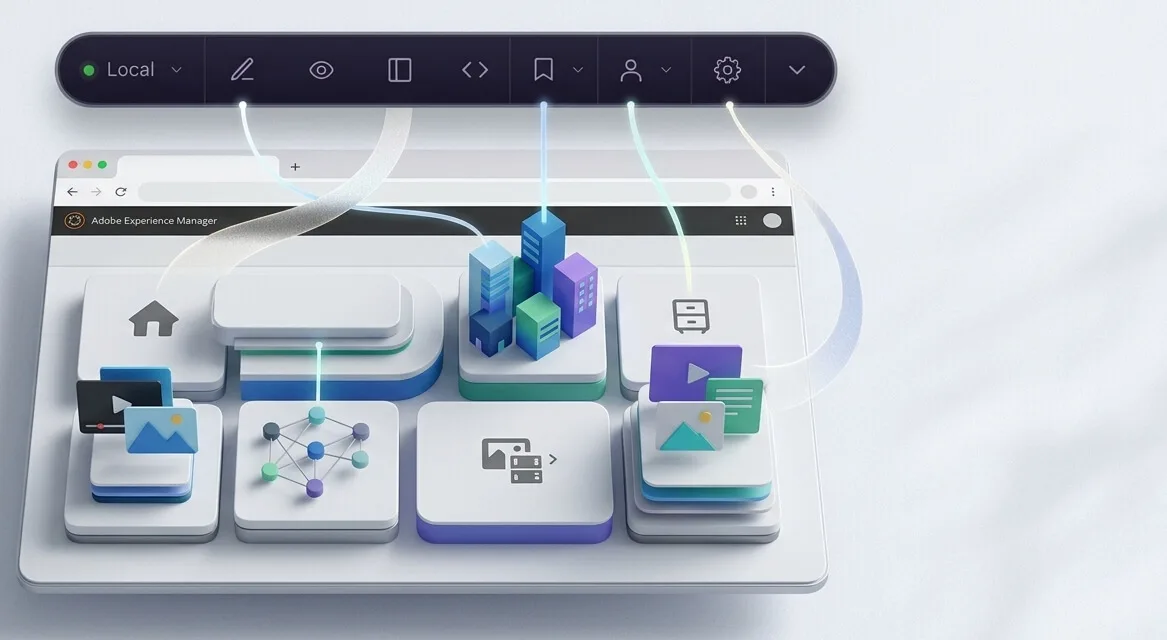
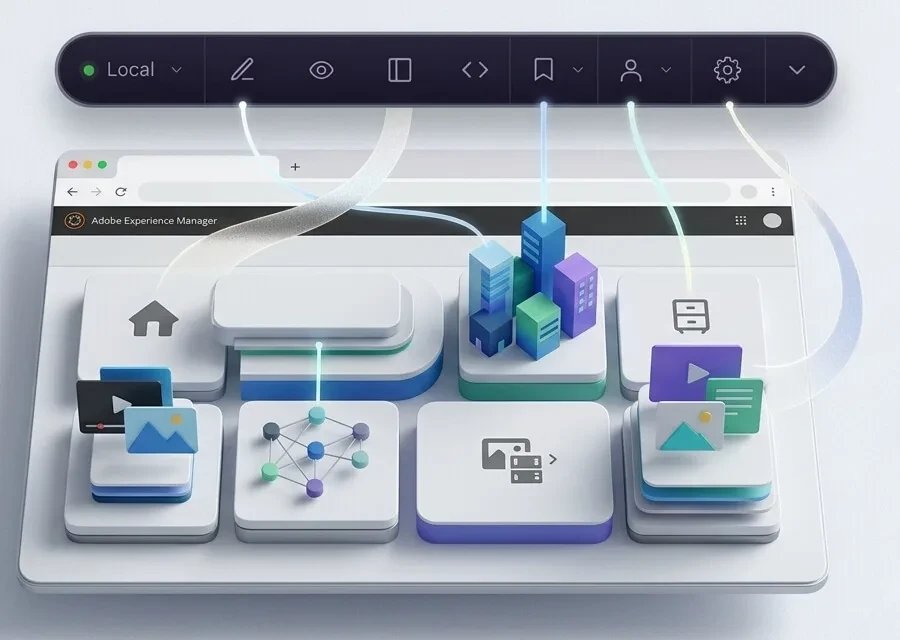
fix(docs): crop the empty right side of the hero image

diff --git a/docs/es/index.html b/docs/es/index.html
@@ -103,7 +103,7 @@
         </div>
       </div>
       <div class="hero-media">
-        <img class="hero-img" src="../assets/toolbar-scene.webp" width="1167" height="640" fetchpriority="high" decoding="async" alt="Toolbar AEM flotando sobre una ventana del navegador con Adobe Experience Manager, con líneas desde cada botón hasta la consola que abre.">
+        <img class="hero-img" src="../assets/toolbar-scene.webp" width="900" height="640" fetchpriority="high" decoding="async" alt="Toolbar AEM flotando sobre una ventana del navegador con Adobe Experience Manager, con líneas desde cada botón hasta la consola que abre.">
       </div>
     </div>
   </section>

diff --git a/docs/index.html b/docs/index.html
@@ -103,7 +103,7 @@
         </div>
       </div>
       <div class="hero-media">
-        <img class="hero-img" src="assets/toolbar-scene.webp" width="1167" height="640" fetchpriority="high" decoding="async" alt="Toolbar AEM floating above an Adobe Experience Manager browser window, with lines from each button to the console it opens.">
+        <img class="hero-img" src="assets/toolbar-scene.webp" width="900" height="640" fetchpriority="high" decoding="async" alt="Toolbar AEM floating above an Adobe Experience Manager browser window, with lines from each button to the console it opens.">
       </div>
     </div>
   </section>
